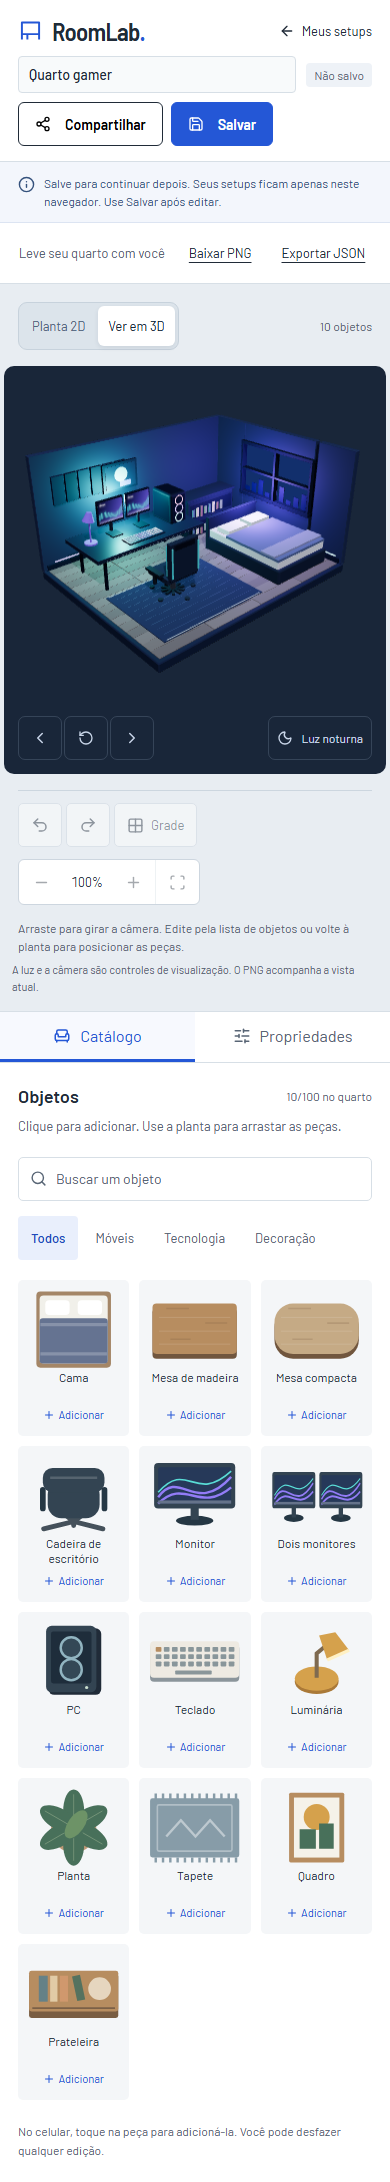
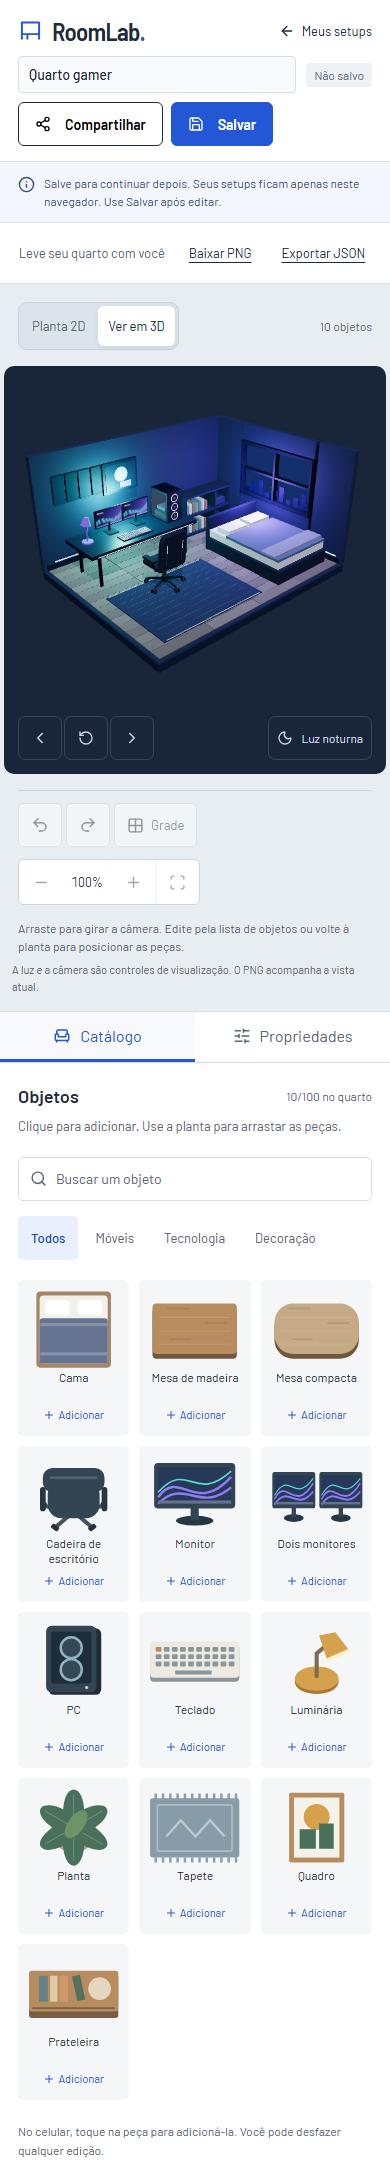
docs: explain furniture refinement and refresh visual previews

Changed region(s): [[0.2154, 0.2181, 0.5846, 0.2805], [0.1538, 0.6856, 0.2154, 0.7168]]

diff --git a/docs/REFINAMENTO-3D.md b/docs/REFINAMENTO-3D.md
@@ -1,0 +1,56 @@
+# Refinamento do mobiliário
+
+Revisão visual de 6 de outubro de 2026. O foco é a construção das peças e sua relação dentro do quarto.
+
+## Direção antes da implementação
+
+A identidade continua concentrada no quarto. A interface mantém Barlow para leitura e Barlow Semi Condensed para marca e títulos, com texto alinhado à esquerda.
+
+| Material | Cor | Uso |
+| --- | --- | --- |
+| Grafite | `#25313b` | Estrutura e braços da cadeira |
+| Metal | `#59606a` | Pistão, cubo e eixos |
+| Tecido | Cor escolhida para a peça | Assento e encosto |
+| Madeira | `#b78d60` | Mesa e estante |
+| LED | `#59dcd6` | Pequeno detalhe do modelo gamer |
+| Bancada | `#e8edf2` | Interface existente |
+
+Comparação das alternativas:
+
+```text
+A: detalhes sobre o modelo atual     B: reconstrução das conexões (escolhida)
+   encosto retangular                  encosto inclinado e estofado
+   assento                              assento + suporte dos braços
+   base solta + rodas                   pistão > cubo > cinco braços > rodízios
+```
+
+Adicionar detalhes à base antiga esconderia o problema de construção. A revisão usa conexões contínuas, rodas orientadas pelo eixo correto e proporções que acompanham o tamanho da peça. O LED fica discreto; o formato da cadeira precisa funcionar também com luz natural.
+
+Monitores terão telas com proporção 16:9, estantes terão vãos abertos e os tamanhos iniciais de equipamentos serão revistos junto dos exemplos. O preview continua estilizado, sem compromisso de medidas físicas para comprar móveis.
+
+## Compatibilidade
+
+Os documentos continuam na versão 1. Tamanhos e posições de composições salvas são preservados; a representação do mobiliário muda. Novos exemplos e novas peças recebem os tamanhos iniciais revisados.
+
+## Verificação
+
+Foram revisados o quarto gamer à noite, o ambiente com luz natural, a cadeira vista de frente e o editor em desktop e celular. As capturas não registraram erros de execução nem rolagem horizontal indevida.
+
+![Cadeira de frente e mobiliário revisado](screenshots/chair-front-desktop.png)
+
+O modelo agora tem braços contínuos até os rodízios, eixos horizontais e encosto estofado inclinado. Monitores preservam 16:9 ao redimensionar. A estante tem nichos com livros apoiados nas divisórias, a mesa compacta tem cantos arredondados na planta do tampo e o gabinete tem estrutura aberta sob o vidro lateral.
+
+Os testes geométricos verificam limites da cadeira, conexão dos rodízios, eixo das rodas, pontos de fixação das estruturas, altura do tampo, apoio sobre tapetes girados e preservação das dimensões dos documentos anteriores.
+
+Validação local: 26 testes unitários, 72 casos de navegador e 2 casos do build de Pages aprovados. Seis casos de navegador são ignorados nos perfis em que não se aplicam. Lint, formatação, checagem de tipos e build também aprovados. A suíte usa Chromium em perfis responsivos, sem certificação em aparelhos físicos.
+
+O módulo 3D continua sendo carregado separadamente. O build mantém o aviso sobre seu tamanho; este refinamento não acrescenta dependências.
+
+## Para aprender no código
+
+- Em [chair.ts](../src/features/room3d/chair.ts), siga o caminho do cubo central até o rodízio. Cada braço usa dois pontos de fixação e cada roda gira sobre um eixo horizontal.
+- Em [primitives.ts](../src/features/room3d/primitives.ts), `strut` orienta um cilindro entre dois pontos. Isso evita deslocar a geometria para fora do pivô e gerar braços desconectados ao girar.
+- Em [projection.ts](../src/features/room3d/projection.ts), compare a elevação da mesa com a dos equipamentos. Se o tapete levanta a mesa, a bancada também sobe.
+- Em [furniture.test.ts](../tests/furniture.test.ts), experimente remover a rotação das rodas ou deslocar a ponta do braço. Os testes verificam propriedades mecânicas do modelo.
+
+As quebras de linha de arquivos de texto são padronizadas em LF por `.gitattributes`, para que a verificação de formatação seja consistente entre Windows e o CI.

diff --git a/docs/ARQUITETURA.md b/docs/ARQUITETURA.md
@@ -49,9 +49,11 @@ Durante um arrasto, ações de preview atualizam a representação. Ao concluir,
 
 ## Representação 3D
 
-[`projection.ts`](../src/features/room3d/projection.ts) converte o centro da peça para X/Z no piso e a rotação para o eixo vertical. Equipamentos recebem altura de bancada quando seu centro está sobre uma mesa, considerando a rotação da mesa.
+[`projection.ts`](../src/features/room3d/projection.ts) converte o centro da peça para X/Z no piso e a rotação para o eixo vertical. Equipamentos recebem altura de bancada quando seu centro está sobre uma mesa, considerando a rotação da mesa. O tapete também funciona como uma superfície de apoio; quando a mesa está sobre ele, seus equipamentos acompanham a mesma elevação.
 
-[`models.ts`](../src/features/room3d/models.ts) constrói mobiliário com geometria, materiais, texturas de tela e detalhes por categoria. Alturas são convencionais por tipo. O ambiente gamer acrescenta materiais escuros e iluminação RGB.
+[`models.ts`](../src/features/room3d/models.ts) constrói mobiliário com geometria, materiais, texturas de tela e detalhes por categoria. As proporções são estilizadas: telas preservam 16:9, cadeira e equipamentos acompanham o tamanho da peça, e a mesa mantém uma altura de apoio comum. O ambiente gamer acrescenta materiais escuros e iluminação RGB.
+
+[`chair.ts`](../src/features/room3d/chair.ts) reúne assento, encosto, pistão e cinco braços com rodízios duplos. [`primitives.ts`](../src/features/room3d/primitives.ts) posiciona estruturas por pontos de conexão e constrói tampos arredondados. Os testes de [mobiliário](../tests/furniture.test.ts) verificam o encaixe da base nos rodízios, o eixo das rodas, limites após redimensionamento e altura do tampo.
 
 [`RoomCanvas.tsx`](../src/features/room3d/RoomCanvas.tsx) administra renderer, luzes, câmera e OrbitControls. O motor é carregado por importação dinâmica. Renderizações são solicitadas por mudanças relevantes, e a câmera usa uma animação curta em resposta aos controles. O limite de densidade é 1,7 pixels por pixel CSS. Geometrias, materiais, texturas e controles são liberados ao desmontar.
 

diff --git a/README.md b/README.md
@@ -77,7 +77,7 @@ npm run test:pages -- --workers=2
 npm run build
 ```
 
-A validação da entrega 3D aprovou **21 testes unitários, 72 casos de navegador e 2 casos do build de Pages**. Seis casos adicionais são ignorados nos perfis em que não se aplicam. Os perfis de desktop, tablet e celular usam Chromium; não representam certificação em dispositivos físicos ou em todos os navegadores.
+A validação local do [refinamento 3D](docs/REFINAMENTO-3D.md) aprovou **26 testes unitários, 72 casos de navegador e 2 casos do build de Pages**. Seis casos adicionais são ignorados nos perfis em que não se aplicam. Os perfis de desktop, tablet e celular usam Chromium; não representam certificação em dispositivos físicos ou em todos os navegadores.
 
 O [workflow](.github/workflows/pages.yml) executa lint, formatação, testes e build antes de publicar. [Execução validada da entrega 3D](https://github.com/samuelsce/RoomLab/actions/runs/37417938419). `npm run test:live` verifica a demo pública, o 3D gamer, compartilhamento em sessão independente e cópia editável.
 

diff --git a/README.en.md b/README.en.md
@@ -70,7 +70,7 @@ npm run test:pages -- --workers=2
 npm run build
 ```
 
-The 3D delivery passed 21 unit tests, 72 browser cases and 2 Pages-build cases. Six additional cases are skipped where their device-specific behavior does not apply. Browser coverage uses Chromium desktop, tablet and mobile profiles, not physical-device or all-browser certification.
+Local validation of the [3D furniture refinement](docs/REFINAMENTO-3D.md) passed 26 unit tests, 72 browser cases and 2 Pages-build cases. Six additional cases are skipped where their device-specific behavior does not apply. Browser coverage uses Chromium desktop, tablet and mobile profiles, not physical-device or all-browser certification.
 
 The [workflow](.github/workflows/pages.yml) validates changes before deployment. [Verified 3D delivery run](https://github.com/samuelsce/RoomLab/actions/runs/37417938419). `npm run test:live` checks the public demo, 3D gaming scene, independent shared view and editable copy.
 

diff --git a/docs/README.md b/docs/README.md
@@ -23,5 +23,6 @@ Estes documentos registram decisões no momento de cada entrega. Referências a 
 | [Entrega 03](ENTREGA-03.md) | Biblioteca, armazenamento, backups e erros |
 | [Entrega 04](ENTREGA-04.md) | Compartilhamento e GitHub Pages |
 | [Entrega 05](ENTREGA-05.md) | Estúdio 3D, quarto gamer, animações e projeção |
+| [Refinamento 3D](REFINAMENTO-3D.md) | Proporções, construção da cadeira, apoios e acabamento do mobiliário |
 
 Os exercícios de cada entrega ajudam a modificar o projeto e explicar suas decisões. As funcionalidades e limitações atuais estão descritas no README e na arquitetura.
